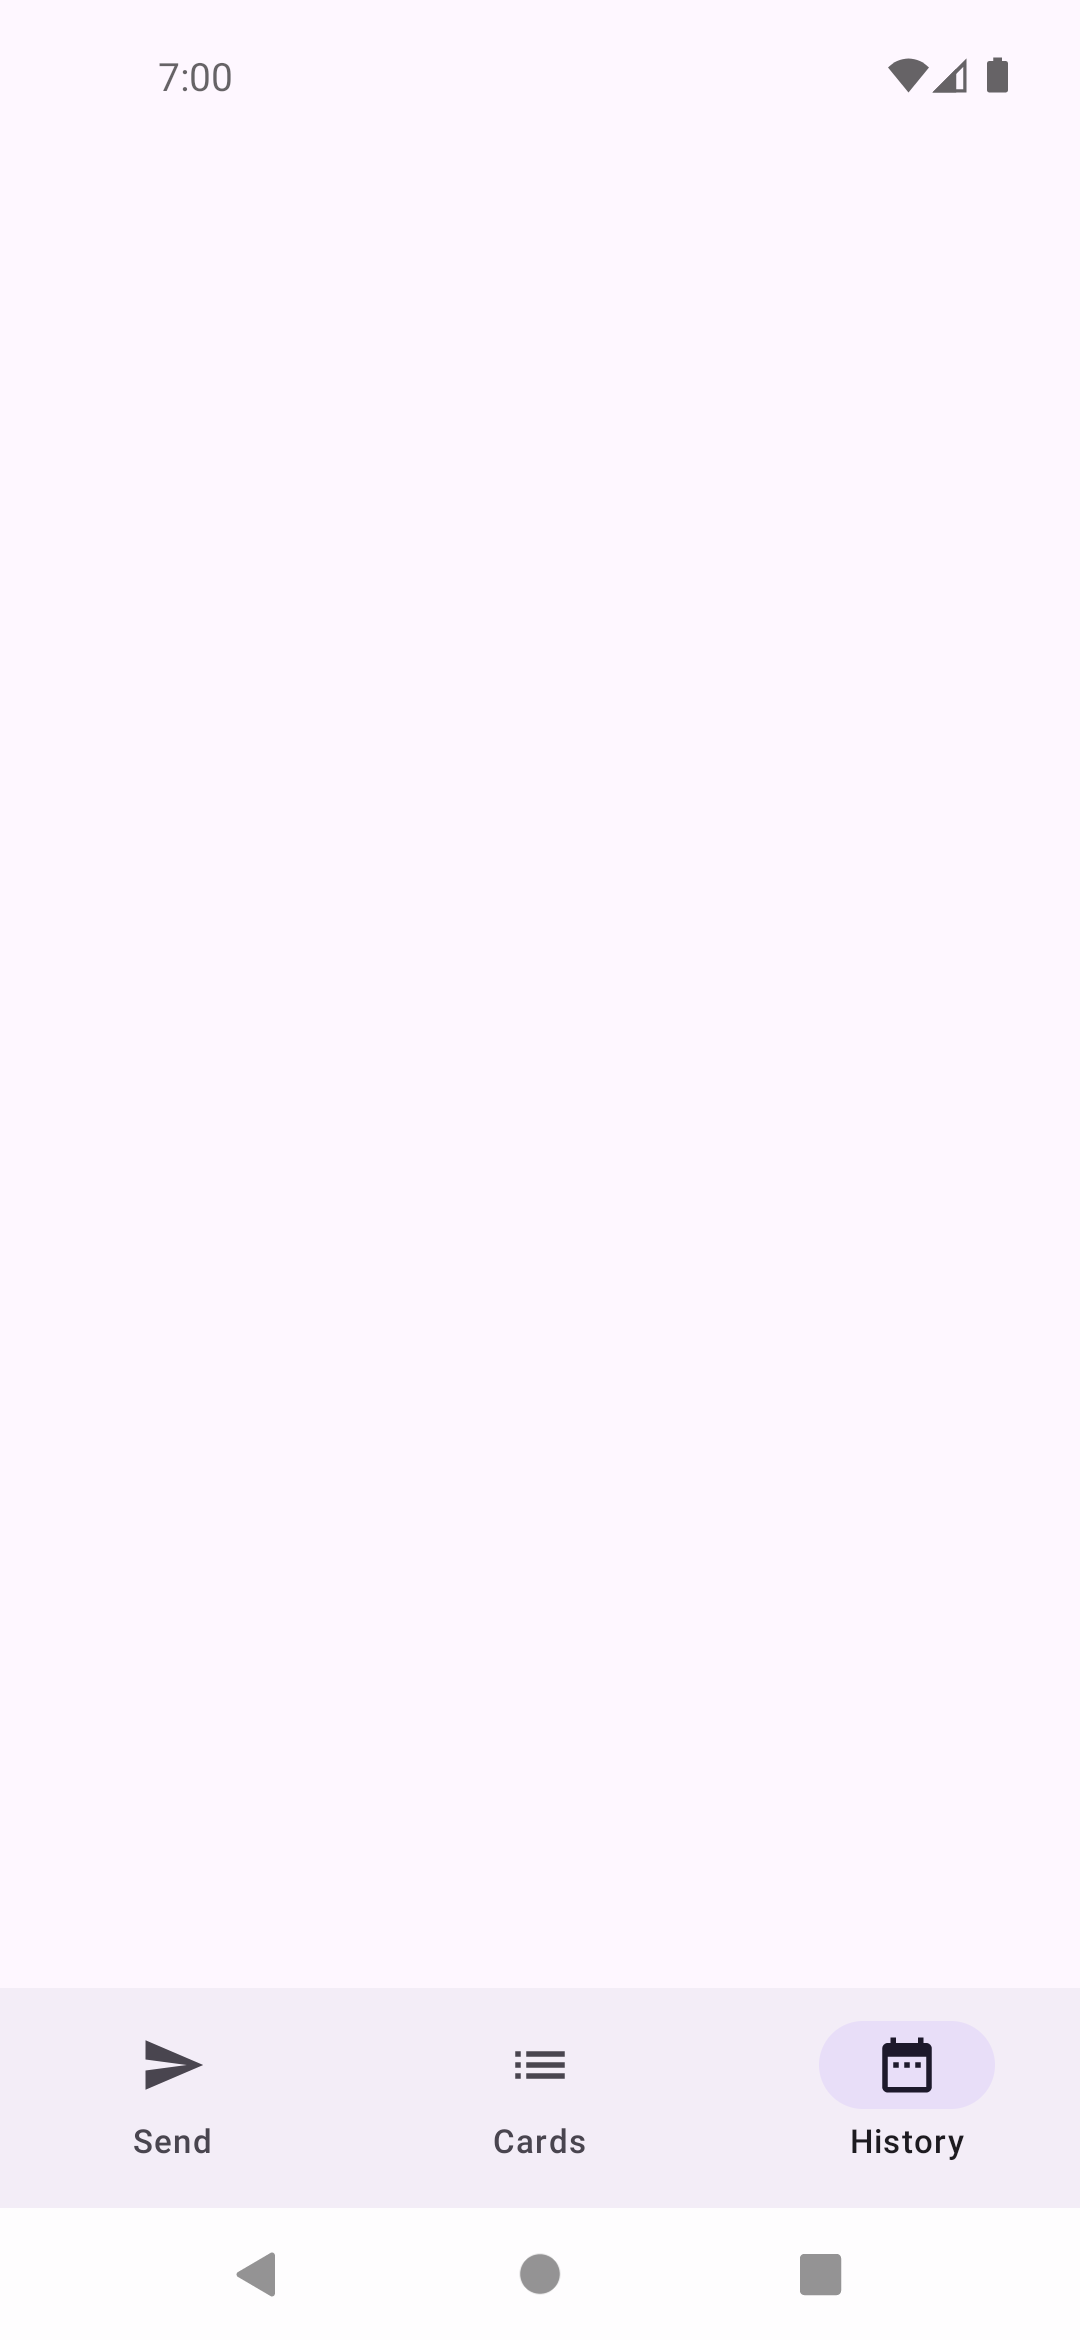
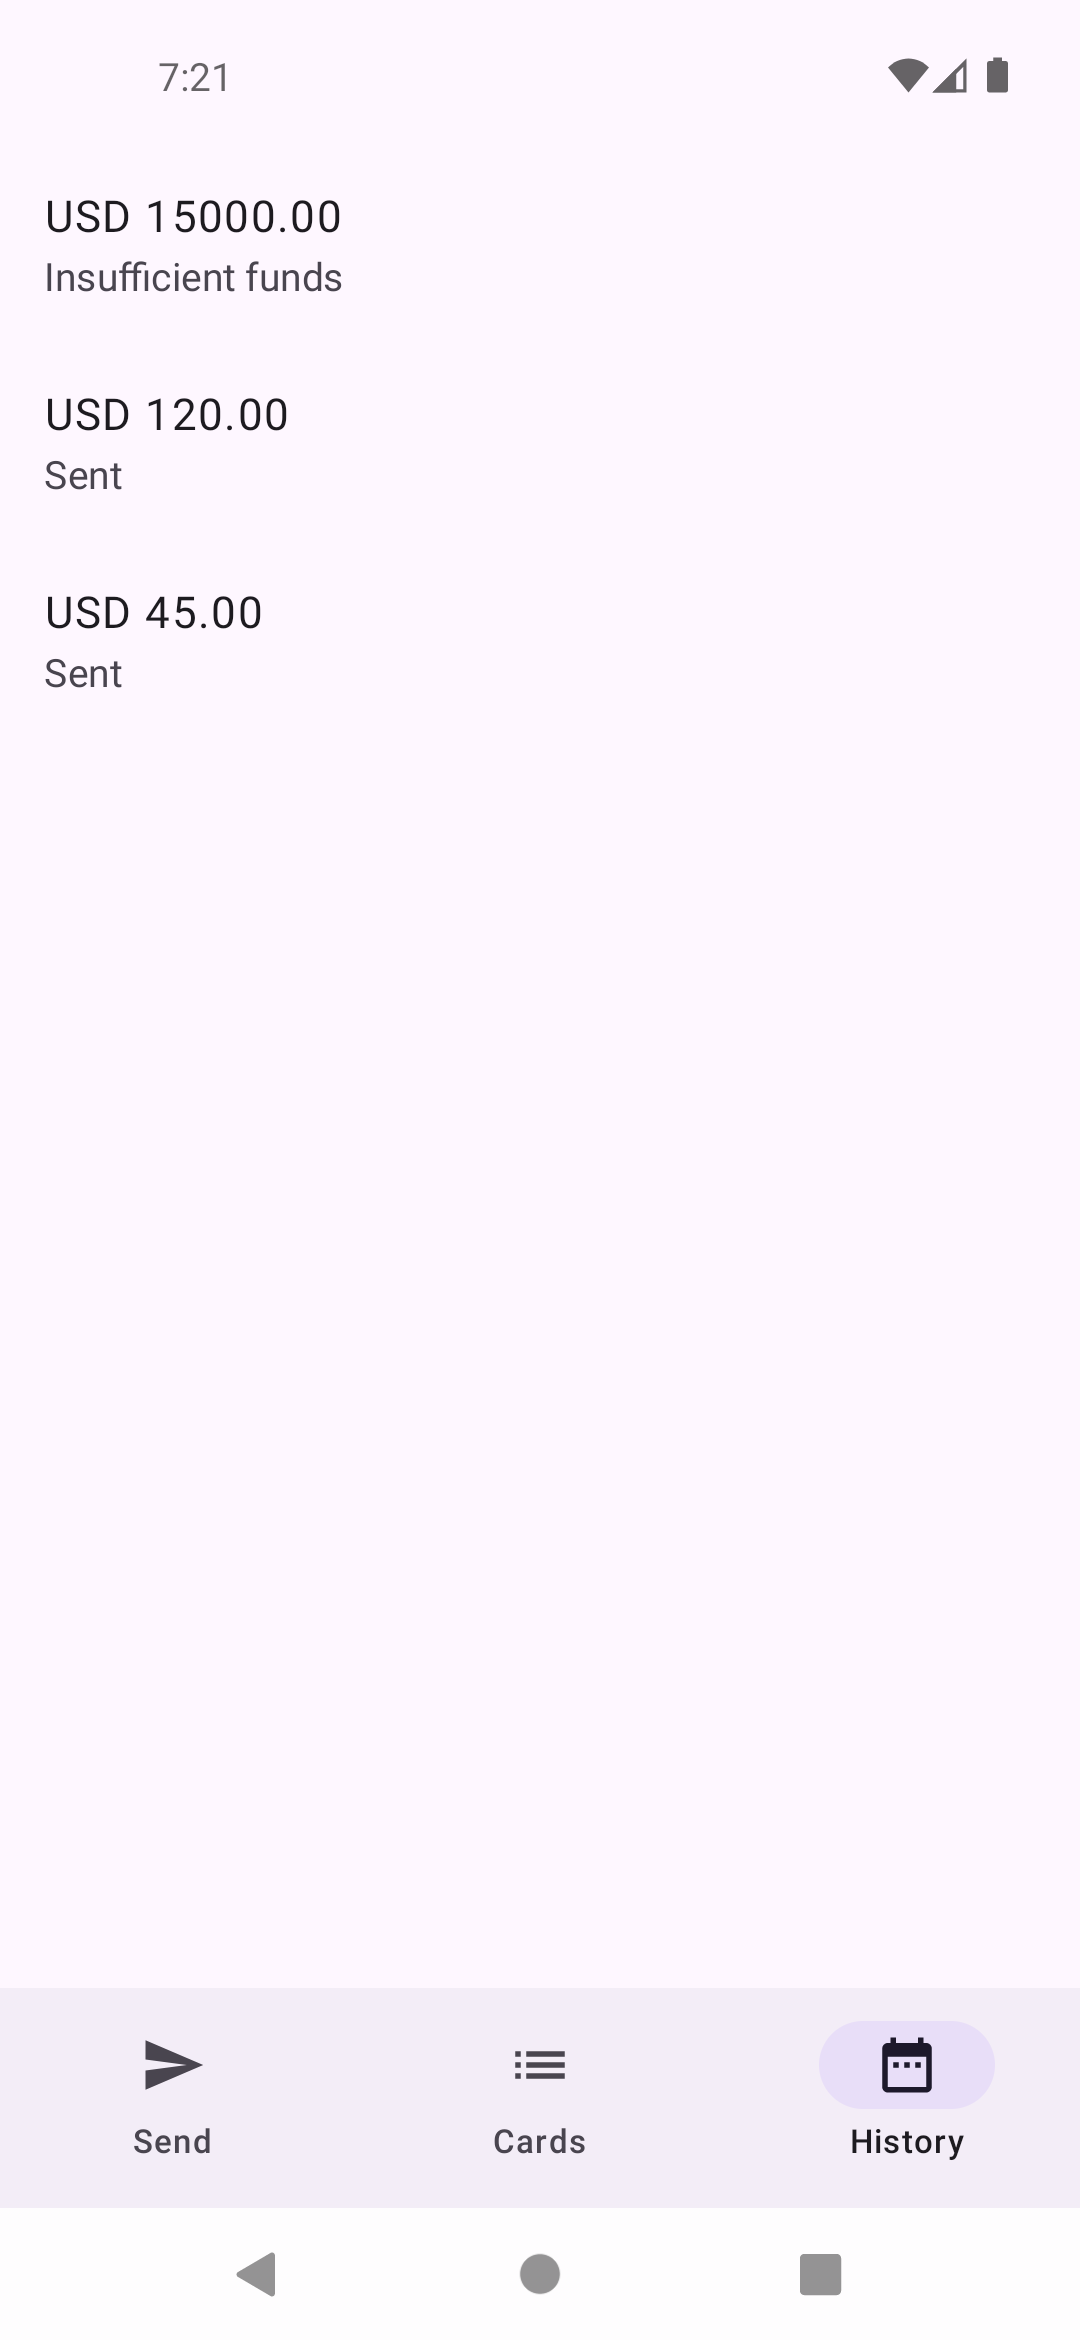
Rewrite README in a friendlier, plainer tone
Also swap the transaction history screenshot for one showing real
data (a sent payment, a failed one, and another sent one) instead of
the empty state, which wasn't very informative.

diff --git a/README.md b/README.md
@@ -1,31 +1,37 @@
 # Fintech Mobile Patterns (Android)
 
-A production-oriented Android sample demonstrating fintech-specific mobile patterns — multi-currency payments, biometric-gated confirmation, offline-first transaction handling, typed error recovery, and retry with exponential backoff — built with Clean Architecture, MVI, Jetpack Compose, and Hilt. Companion to [clean-architecture-android](https://github.com/nerojust/clean-architecture-android), which demonstrates the same architectural shape on a simpler domain.
+Hey! 👋 This is a sample Android app that shows how a real fintech app handles the tricky stuff: sending money in different currencies, confirming payments with your fingerprint or face, keeping working even when your internet drops, and gracefully recovering when something goes wrong.
+
+It's built with modern Android tools — Clean Architecture, MVI, Jetpack Compose, and Hilt — the same way a production banking or payments app would be. It's a companion to [clean-architecture-android](https://github.com/nerojust/clean-architecture-android), which covers the same architecture on a simpler app.
 
 ![CI](https://github.com/nerojust/fintech-mobile-patterns-android/actions/workflows/ci.yml/badge.svg)
 
-## Sample app: "Vela"
+## Meet "Vela"
 
-A fictional multi-currency wallet. No employer code, branding, or real API shape appears anywhere — the backend is a fake, in-process implementation (`FakeVelaApiService`) with injectable simulated latency and failure rate, standing behind the same `VelaApiService` interface a real Retrofit-backed client would implement.
+Vela is a made-up multi-currency wallet app — think "send money to a friend abroad." It's entirely fictional: no real company's code, branding, or backend is used anywhere. Instead of talking to a real server, it talks to a fake one (`FakeVelaApiService`) that lives right inside the app and can simulate slow connections or random failures — which is exactly what makes it useful for showing off error handling and retries.
 
-| Feature | Demonstrates |
+Here's what it does, and what each part is meant to demonstrate:
+
+| What you can do | What it's showing off |
 |---|---|
-| Send money (multi-currency, live conversion) | Multi-currency payment UX |
-| Biometric confirmation before submit | Biometric-gated payment flow |
-| Card management (masked PAN — last4/brand/expiry only) | No-raw-PAN-on-client pattern |
-| Transaction history (Pending / Synced / Failed) | Offline-first state visibility |
-| Failed payment recovery with typed failure reasons | Error recovery UX |
-| Background resubmission with exponential backoff | Retry logic |
+| Send money and see it convert between currencies live | Handling multi-currency payments |
+| Confirm a payment with your fingerprint/face | Biometric-secured payments |
+| Manage cards without ever storing the full card number | Keeping sensitive data safe |
+| Watch a payment go from "Pending" to "Sent" (even offline!) | Offline-first design |
+| See a clear reason when a payment fails, with a way to retry | Friendly error recovery |
+| Have a failed payment quietly retry itself in the background | Automatic retry with backoff |
 
-## Screenshots
+## What it looks like
 
-A bottom navigation bar (Send / Cards / History) switches between the three feature screens.
+There's a simple bottom nav bar with three tabs: Send, Cards, and History.
 
-| Send money | Cards (masked PAN) | Transaction history |
+| Send money | Cards | Transaction history |
 |---|---|---|
-| ![Send money screen](docs/screenshots/send_money.png) | ![Cards screen](docs/screenshots/cards.png) | ![Transaction history screen, empty state](docs/screenshots/transaction_history.png) |
+| ![Send money screen](docs/screenshots/send_money.png) | ![Cards screen](docs/screenshots/cards.png) | ![Transaction history screen showing a sent payment, a payment that failed for insufficient funds, and another sent payment](docs/screenshots/transaction_history.png) |
 
-## Module graph
+## How it's organized
+
+The app is split into small, focused modules instead of one giant codebase. This keeps things testable and easy to reason about — each box below only knows about the boxes it points to.
 
 ```mermaid
 graph TD
@@ -44,7 +50,9 @@ graph TD
     data --> core_common[core:common]
 ```
 
-## Offline-first & retry flow
+## The interesting part: what happens when you tap "Send"
+
+This is the heart of the app, so it's worth walking through. When you send money, the app doesn't just fire off a network request and hope for the best — it saves the payment locally *first*, so it's never lost even if your phone loses signal or the app gets closed. Then it tries to actually send it, and handles whatever happens next:
 
 ```mermaid
 sequenceDiagram
@@ -74,37 +82,45 @@ sequenceDiagram
     Note over Worker: The next sync revives it to PENDING and retries (insufficient-funds rows are never revived)
 ```
 
-## Why this structure differs from clean-architecture-android
+In plain English:
+1. **Save it locally first.** The payment is written to a local database as "Pending" before anything touches the network. If the app closes right now, nothing is lost.
+2. **Try to send it.** If it works, it's marked "Synced." If the bank would actually decline it (like insufficient funds), it's marked as permanently failed — retrying wouldn't help.
+3. **If it's just a flaky connection**, the app quietly keeps trying in the background, with a little extra wait between each try (this is called "exponential backoff"), and also retries automatically the moment your internet comes back.
 
-- `:domain` stays pure-Kotlin JVM, zero Android dependencies — same rule as the companion repo.
-- `:data` **is** an Android library module here (the companion repo's `:data` is pure JVM). This repo's `:data` wires Room (`:core:database`) for the offline outbox and a `WorkManager` `CoroutineWorker` for background sync — both are Android APIs. The domain/data boundary that matters (business logic has zero Android dependency) is still enforced at `:domain`.
-- Hilt `@Module`/`@Binds`/`@Provides` wiring lives only in `:app`, exactly as in the companion repo — every other module uses plain `@Inject`/`@AssistedInject` constructors.
-- A payment is written to the Room outbox as `PENDING` *before* any network call — this is what makes it offline-first: the write survives process death, so a payment the user believes was submitted cannot silently vanish if the app is killed.
+## A couple of ways this differs from the companion repo
 
-## Setup
+If you've looked at [clean-architecture-android](https://github.com/nerojust/clean-architecture-android) already, here's what's different here and why:
+
+- The `domain` module still has zero Android-specific code in it, same as before — it's just plain Kotlin, so the core business logic is easy to test.
+- The `data` module *does* use Android-specific tools here (Room for the local database, WorkManager for background retries) — that's new compared to the companion repo, because offline support needs them.
+- All the dependency-injection wiring (Hilt) lives only in the `app` module, keeping every other module simple and framework-free.
+
+## Getting it running
 
 1. Clone the repo and open it in Android Studio (Ladybug or newer).
-2. Ensure Android SDK platform 35 and build-tools 35.0.0 are installed.
-3. Run `./gradlew :app:installDebug` with a device/emulator connected, or use the `app` run configuration in Android Studio.
-4. The device/emulator needs at least one enrolled biometric (fingerprint or face) to complete the send-money flow — Android's biometric APIs require this.
+2. Make sure you have Android SDK platform 35 and build-tools 35.0.0 installed.
+3. Connect a device or emulator, then run `./gradlew :app:installDebug` (or just hit ▶ in Android Studio).
+4. To try the send-money flow, your device/emulator needs at least one fingerprint or face enrolled — that's just how Android's biometric prompt works.
 
-## Testing
+## Running the tests
 
-- All unit tests: `./gradlew test`
-- Per module: `./gradlew :domain:test`, `./gradlew :data:test`, `./gradlew :feature:payment:testDebugUnitTest`, etc.
-- Room DAO test (requires a connected device/emulator): `./gradlew :core:database:connectedAndroidTest`
-- `EncryptedTokenStore` round-trip test (requires a connected device/emulator): `./gradlew :core:security:connectedAndroidTest`
-- Compose UI tests (requires a connected device/emulator): `./gradlew :feature:payment:connectedDebugAndroidTest`
-- Lint: `./gradlew ktlintCheck detekt`
+- Everything: `./gradlew test`
+- One module at a time: `./gradlew :domain:test`, `./gradlew :data:test`, `./gradlew :feature:payment:testDebugUnitTest`, and so on
+- A few tests need a connected device/emulator (they touch real Android APIs like the database and biometrics):
+  - `./gradlew :core:database:connectedAndroidTest`
+  - `./gradlew :core:security:connectedAndroidTest`
+  - `./gradlew :feature:payment:connectedDebugAndroidTest`
+- Code style check: `./gradlew ktlintCheck detekt`
 
-## Known simplifications (extension points)
+## Things that are intentionally left simple
 
-- No real payment processor/backend — `FakeVelaApiService` is in-process only. Swapping in a real Retrofit client means implementing `VelaApiService` against a real host and rebinding it in `di/NetworkModule.kt` — no change needed anywhere else.
-- `CardRepository.removeCard` is a no-op — the fake backend has no delete endpoint yet.
-- The cards list screen is currently display-only: `CardsViewModel`, `CardsIntent.AddCardClicked`/`RemoveCard`, `AddCardUseCase`, and `RemoveCardUseCase` are fully wired and tested (adding a card genuinely persists through the fake backend), but `CardsContent` doesn't yet expose any UI (a FAB, a swipe action) to trigger either intent.
-- `core:security`'s `EncryptedTokenStore` (Keystore-backed via `EncryptedSharedPreferences`) is available for encrypted auth-token storage and verified by an instrumented save/get/clear round-trip test, but it is not yet wired into a login/session screen — this demo app has no auth flow to attach it to.
-- No root/jailbreak detection, remote config, or crash reporting — out of proportion for a pattern-demonstration repo.
-- No screenshot testing (Paparazzi/Roborazzi) — deferred, not needed to demonstrate the core testing pyramid.
+This is a sample app, so a few things were deliberately kept basic rather than fully built out:
+
+- There's no real bank or payment processor behind this — it's all a fake, in-app backend. Swapping in a real one later would just mean writing one new class and pointing the app at it.
+- You can't delete a card yet — the fake backend doesn't support it.
+- The Cards screen shows your cards, but doesn't have buttons to add or remove one yet, even though all the logic behind the scenes for that already works and is tested.
+- There's a secure, encrypted place to store login tokens (`EncryptedTokenStore`) ready to go, but since this demo has no login screen, it's not hooked up to anything yet.
+- No fraud detection, remote kill-switch, or crash reporting — those are real production concerns, but out of scope for a sample focused on architecture patterns.
 
 ## License
 
